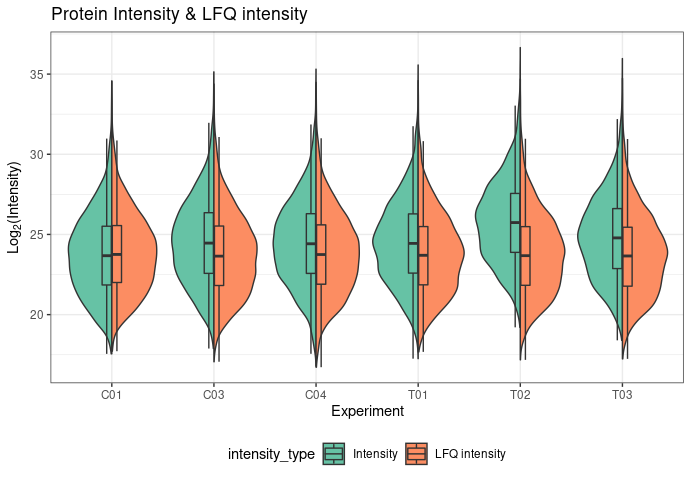
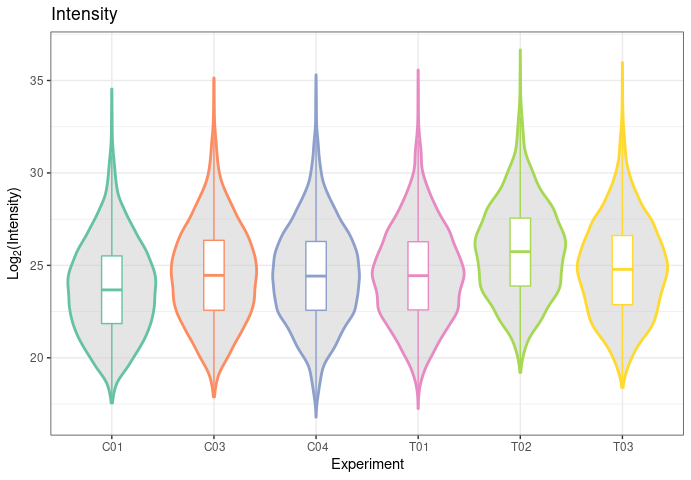
PlotIntensity bugs fixed

diff --git a/README.md b/README.md
@@ -119,8 +119,8 @@ PlotIdentificationType(peptides,proteinGroups, long_names = TRUE, sep_names = '_
 <img src="man/figures/README-IdentificationType-1.png" width="100%" />
 
 ``` r
-PlotIntensity(proteinGroups, split_violin_intensity = TRUE, intensity_type = 'LFQ', 
-              log_base = 2, long_names = TRUE, sep_names = '_')
+PlotIntensity(proteinGroups, split_violin_intensity = FALSE, intensity_type = 'Intensity', 
+              log_base = 2, long_names = FALSE, sep_names = '_')
 ```
 
 <img src="man/figures/README-PlotIntensity-1.png" width="100%" />
